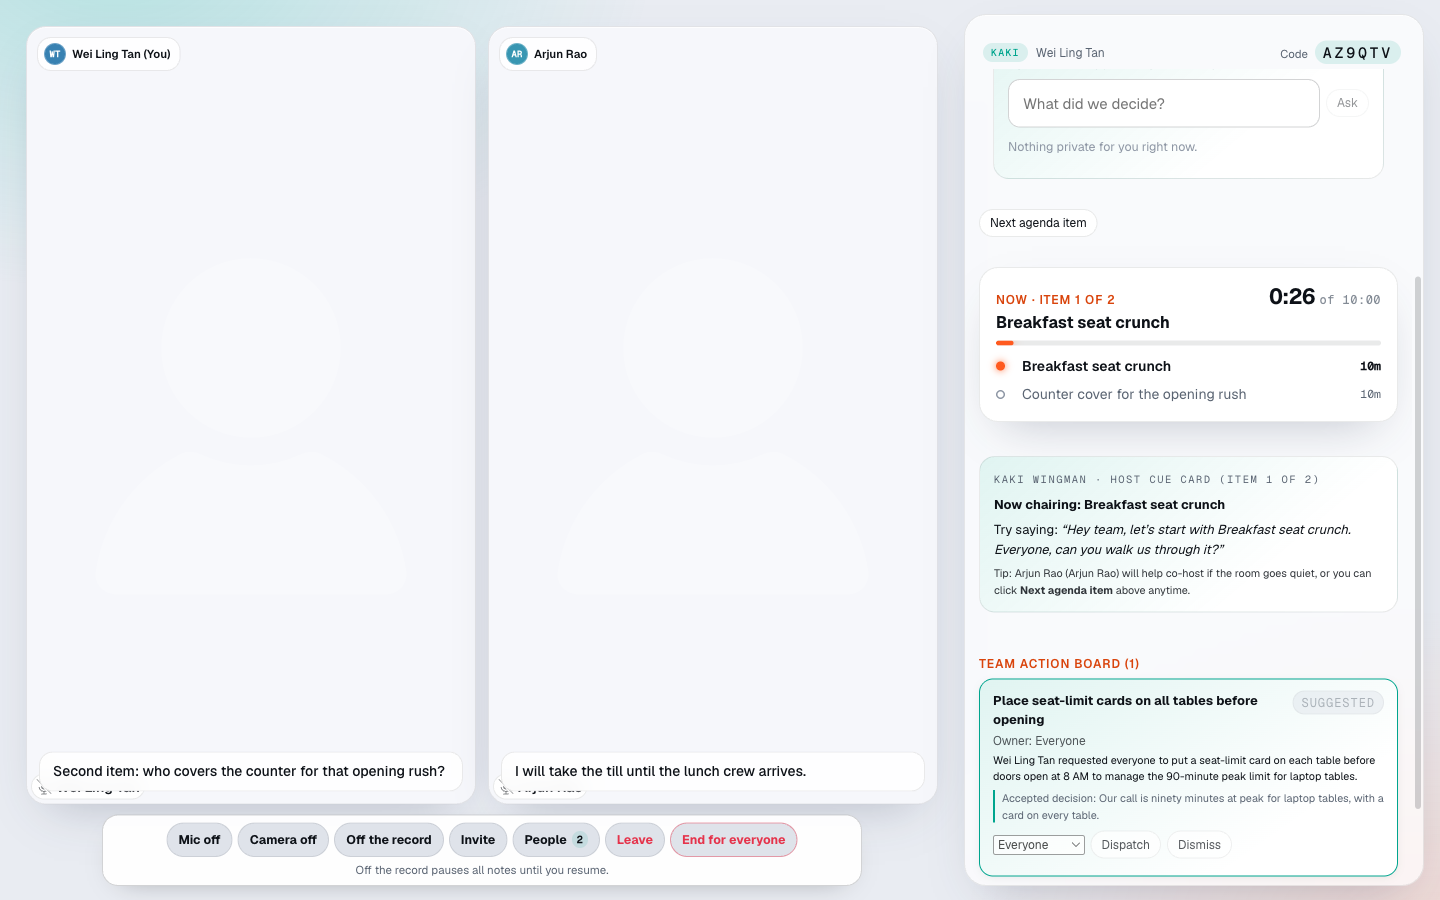
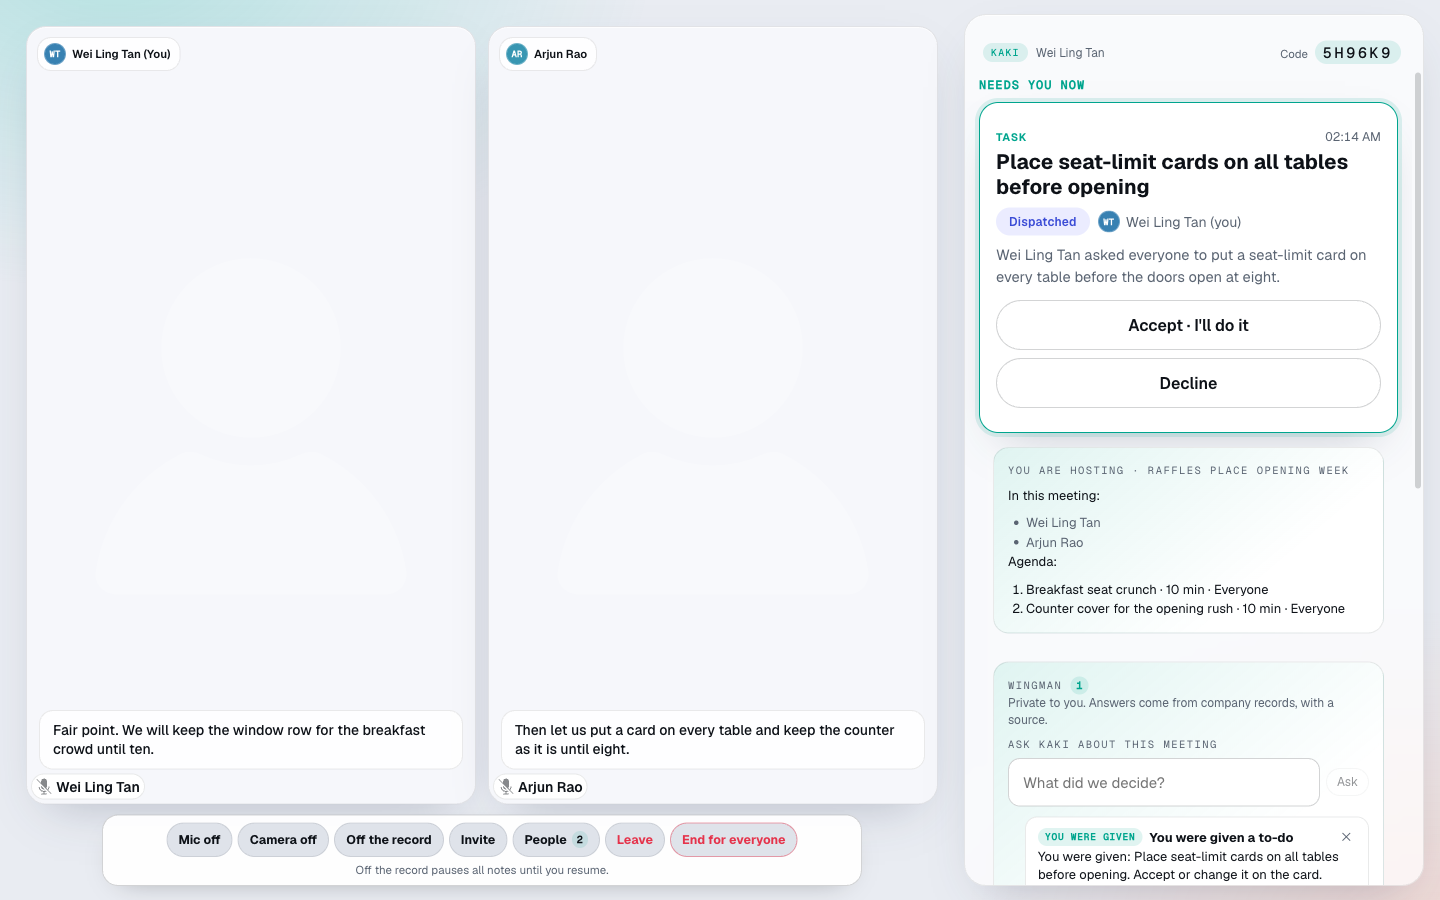
fix(web): captions never cover the name tag; host tip names a person once; retake screenshots
Claude-Session: https://claude.ai/code/session_01WsoCaY9VwaqayVJA6RDmWu

diff --git a/web/src/meeting/room/practice.css b/web/src/meeting/room/practice.css
@@ -92,6 +92,8 @@ select.kd-field { appearance: none; cursor: pointer; background-image: linear-gr
 .kd-tile[data-state="speaking"] .kd-state { color: var(--c); }
 .kd-tile[data-state="thinking"] .kd-state { color: var(--color-host); animation: kd-blink 1s infinite; }
 .kd-caption { position: absolute; left: 12px; right: 12px; bottom: 12px; padding: 9px 13px; border-radius: 14px; background: color-mix(in srgb, var(--color-surface) 90%, transparent); backdrop-filter: blur(10px); border: 1px solid var(--color-border); color: var(--color-text); font-size: 14px; font-weight: 500; line-height: 1.4; pointer-events: none; z-index: 3; animation: kd-word 260ms ease both; }
+/* A person's tile also carries LiveKit's bottom-left name chip: sit above it and below the top-left who tag. */
+.kd-tile[data-ai="false"] .kd-caption { bottom: 34px; max-height: calc(100% - 86px); overflow-y: auto; }
 .kd-stage-col { display: flex; flex-direction: column; height: 100%; position: relative; }
 .kd-grid-wrap { position: relative; flex: 1; padding: 10px; min-height: 0; }
 .kd-stage .lk-grid-layout { gap: 12px; padding: 0; }
@@ -230,6 +232,7 @@ select.kd-field { appearance: none; cursor: pointer; background-image: linear-gr
   .kd-reaction-badge { right: 5px; top: 24px; width: 22px; height: 22px; }
   .kd-reaction-emoji { font-size: 12px; }
   .kd-caption { left: 5px; right: 5px; bottom: 5px; padding: 4px 7px; font-size: 11px; line-height: 1.25; max-height: 54%; overflow-y: auto; border-radius: 10px; }
+  .kd-tile[data-ai="false"] .kd-caption { bottom: 38px; max-height: calc(100% - 84px); }
   .kd-turn-bar { width: calc(100% - 8px); padding: 4px 9px; margin-bottom: 1px; gap: 3px; border-radius: 11px; }
   .kd-turn-pill { font-size: 11px; }
   .kd-starter-chips { max-height: 84px; overflow-y: auto; }

diff --git a/web/src/meeting/room/HostCueCard.test.tsx b/web/src/meeting/room/HostCueCard.test.tsx
@@ -1,0 +1,46 @@
+/**
+ * @vitest-environment jsdom
+ */
+import { cleanup, render, screen } from '@testing-library/react';
+import { afterEach, describe, expect, it } from 'vitest';
+import type { Scenario } from '@kaki/shared';
+import { HostCueCard } from './HostCueCard';
+
+afterEach(cleanup);
+
+const realMeeting = {
+  id: 'real-m',
+  meetingTitle: 'Raffles Place opening week',
+  roles: [
+    { id: 'everyone', label: 'Everyone' },
+    { id: 'person_owner', label: 'Owner', facilitator: true },
+    { id: 'person_arjun', label: 'Arjun Rao' },
+  ],
+  attendees: [
+    { name: 'Wei Ling Tan', role: 'person_owner', displayName: 'Wei Ling Tan' },
+    { name: 'Arjun Rao', role: 'person_arjun', displayName: 'Arjun Rao' },
+  ],
+  agenda: [{ title: 'Breakfast seat crunch', minutes: 10, canWait: true, deadline: 'today', ownerRole: 'everyone' }],
+} as unknown as Scenario;
+
+const namedRole = {
+  ...realMeeting,
+  roles: [
+    { id: 'everyone', label: 'Everyone' },
+    { id: 'person_owner', label: 'Owner', facilitator: true },
+    { id: 'person_arjun', label: 'Tech & POS Lead' },
+  ],
+} as unknown as Scenario;
+
+describe('HostCueCard', () => {
+  it('shows a person whose role label is their own name only once', () => {
+    render(<HostCueCard scenario={realMeeting} agendaIndex={0} started />);
+    expect(screen.getByText(/Tip: Arjun Rao will help co-host/)).toBeTruthy();
+    expect(screen.queryByText(/Arjun Rao \(Arjun Rao\)/)).toBeNull();
+  });
+
+  it('keeps the bracketed role when it adds meaning beyond the name', () => {
+    render(<HostCueCard scenario={namedRole} agendaIndex={0} started />);
+    expect(screen.getByText(/Tip: Arjun Rao \(Tech & POS Lead\) will help co-host/)).toBeTruthy();
+  });
+});

diff --git a/web/src/meeting/room/HostCueCard.tsx b/web/src/meeting/room/HostCueCard.tsx
@@ -23,6 +23,14 @@ export function HostCueCard({
     coHostRole === undefined
       ? undefined
       : scenario.attendees.find((a) => a.role === coHostRole.id)?.name ?? roleLabel(scenario, coHostRole.id);
+  const coHostRoleLabel = coHostRole === undefined ? undefined : roleLabel(scenario, coHostRole.id);
+  // A real meeting's role label is the person's own name, so print it only when it adds something.
+  const coHostText =
+    coHostName === undefined
+      ? undefined
+      : coHostRoleLabel === undefined || coHostRoleLabel.trim().toLowerCase() === coHostName.trim().toLowerCase()
+        ? coHostName
+        : `${coHostName} (${coHostRoleLabel})`;
   return (
     <section className="kd-role kd-topic-card" aria-label="Host cue card">
       <p className="kd-role-eyebrow">Kaki Wingman · Host Cue Card (Item {agendaIndex + 1} of {scenario.agenda.length})</p>
@@ -32,9 +40,9 @@ export function HostCueCard({
       <p style={{ marginBottom: 6 }}>
         Try saying: <em>&ldquo;Hey team, let&rsquo;s start with {item.title}. {ownerAttendee}, can you walk us through it?&rdquo;</em>
       </p>
-      {coHostRole === undefined || coHostName === undefined ? null : (
+      {coHostRole === undefined || coHostText === undefined ? null : (
         <small style={{ display: 'block', opacity: 0.85 }}>
-          Tip: {coHostName} ({roleLabel(scenario, coHostRole.id)}) will help co-host if the room goes quiet
+          Tip: {coHostText} will help co-host if the room goes quiet
           {canAdvance ? ', or you can click ' : '.'}
           {canAdvance && (
             <>
